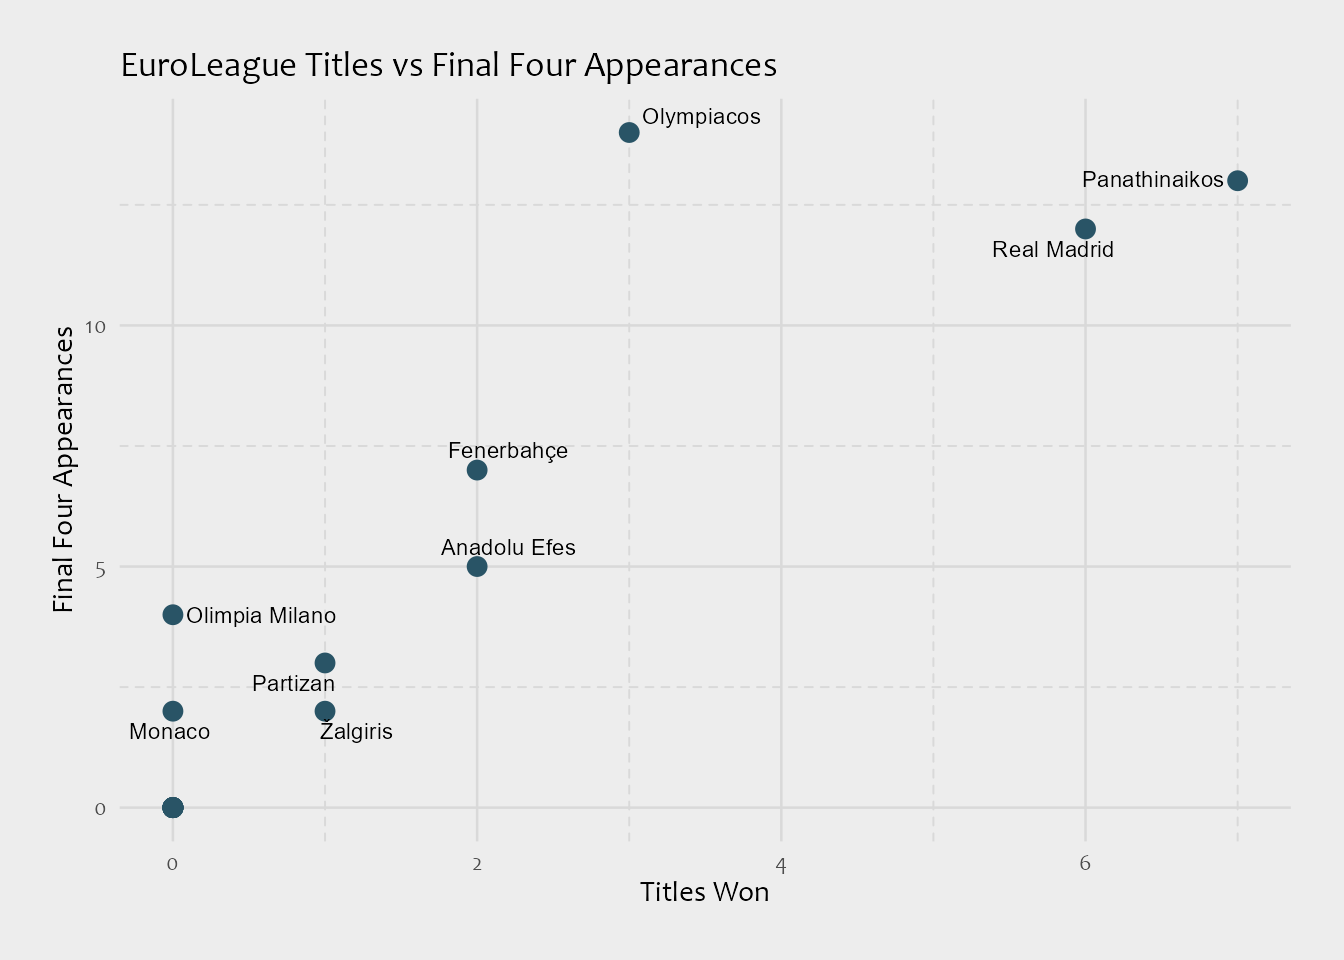
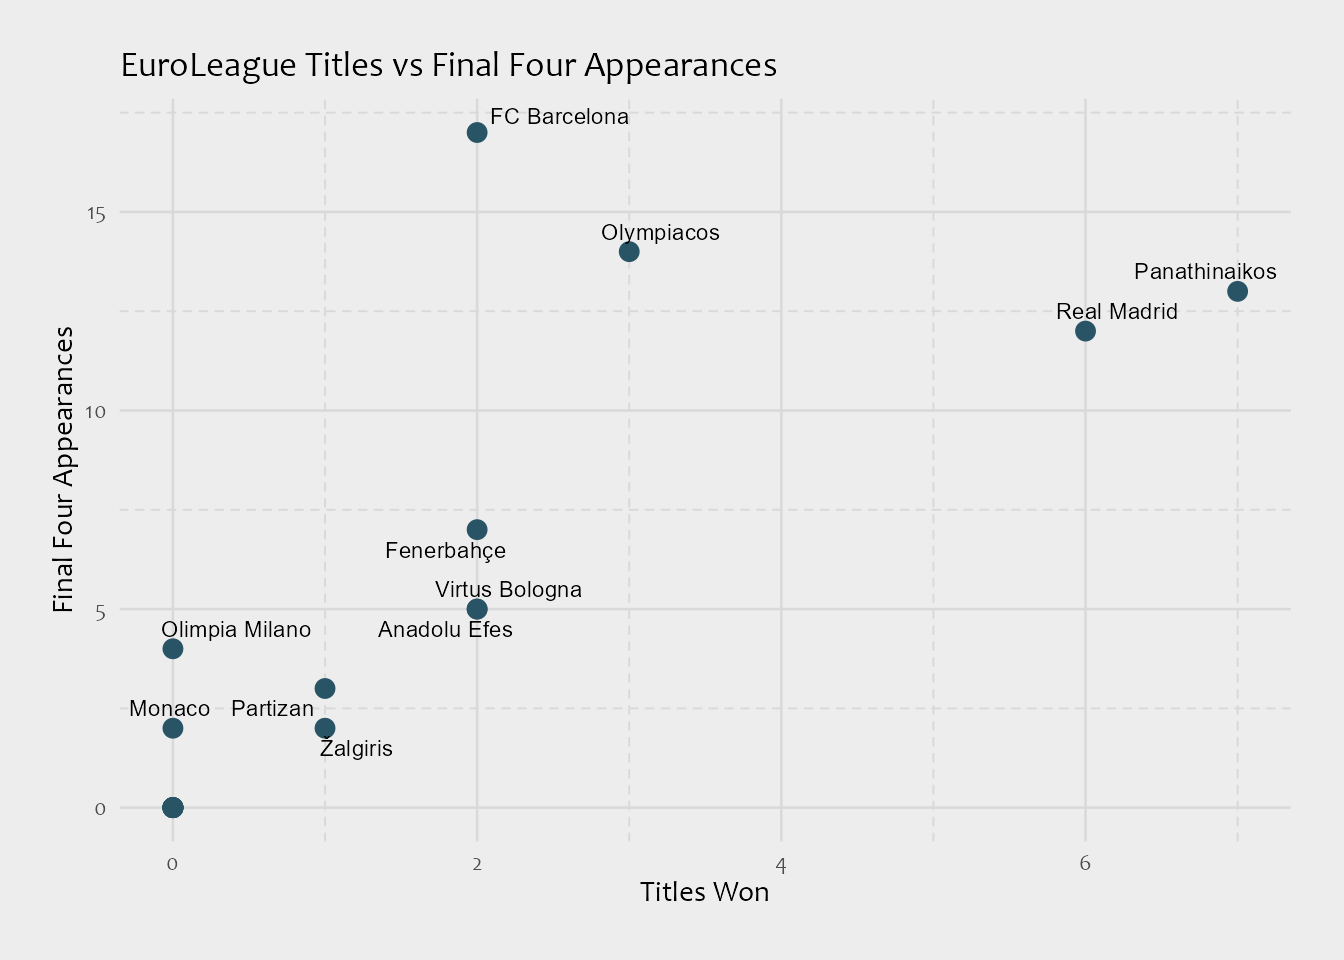
updaye

diff --git a/docs/articles/euroleague-visualizations.html b/docs/articles/euroleague-visualizations.html
@@ -77,6 +77,7 @@ the <code>euroleague_basketball</code> dataset.</p>
 <span><span class="kw"><a href="https://rdrr.io/r/base/library.html" class="external-link">library</a></span><span class="op">(</span><span class="va"><a href="https://ggplot2.tidyverse.org" class="external-link">ggplot2</a></span><span class="op">)</span></span>
 <span><span class="kw"><a href="https://rdrr.io/r/base/library.html" class="external-link">library</a></span><span class="op">(</span><span class="va"><a href="https://ggrepel.slowkow.com/" class="external-link">ggrepel</a></span><span class="op">)</span></span>
 <span><span class="kw"><a href="https://rdrr.io/r/base/library.html" class="external-link">library</a></span><span class="op">(</span><span class="va"><a href="https://r-datatable.com" class="external-link">data.table</a></span><span class="op">)</span></span>
+<span><span class="co">#&gt; Warning: package 'data.table' was built under R version 4.5.1</span></span>
 <span><span class="kw"><a href="https://rdrr.io/r/base/library.html" class="external-link">library</a></span><span class="op">(</span><span class="va"><a href="https://github.com/wch/extrafont" class="external-link">extrafont</a></span><span class="op">)</span></span>
 <span><span class="co">#&gt; Registering fonts with R</span></span></code></pre></div>
 </div>
@@ -91,19 +92,19 @@ the <code>euroleague_basketball</code> dataset.</p>
 <span><span class="co">#&gt;                         Team              Country       Home city</span></span>
 <span><span class="co">#&gt;                       &lt;char&gt;               &lt;char&gt;          &lt;char&gt;</span></span>
 <span><span class="co">#&gt; 1:              Anadolu Efes               Turkey        Istanbul</span></span>
-<span><span class="co">#&gt; 2:                 Barcelona                 &lt;NA&gt;       Barcelona</span></span>
-<span><span class="co">#&gt; 3:                  Baskonia                Spain Vitoria-Gasteiz</span></span>
-<span><span class="co">#&gt; 4:             Bayern Munich              Germany          Munich</span></span>
-<span><span class="co">#&gt; 5: Crvena zvezda Meridianbet               Serbia        Belgrade</span></span>
-<span><span class="co">#&gt; 6:          Dubai Basketball United Arab Emirates           Dubai</span></span>
-<span><span class="co">#&gt;                            Arena Capacity FinalFour_Appearances Titles_Won</span></span>
-<span><span class="co">#&gt;                           &lt;char&gt;   &lt;char&gt;                &lt;char&gt;     &lt;char&gt;</span></span>
-<span><span class="co">#&gt; 1: Basketball Development Center   10,000                     5          2</span></span>
-<span><span class="co">#&gt; 2:               Palau Blaugrana    7,585                     0          0</span></span>
-<span><span class="co">#&gt; 3:                   Buesa Arena   15,431                     0          0</span></span>
-<span><span class="co">#&gt; 4:                    SAP Garden   11,500                     0          0</span></span>
-<span><span class="co">#&gt; 5:                Belgrade Arena   18,386                     0          0</span></span>
-<span><span class="co">#&gt; 6:               Coca-Cola Arena   17,000                     0          0</span></span></code></pre></div>
+<span><span class="co">#&gt; 2:                  Baskonia                Spain Vitoria-Gasteiz</span></span>
+<span><span class="co">#&gt; 3:             Bayern Munich              Germany          Munich</span></span>
+<span><span class="co">#&gt; 4: Crvena zvezda Meridianbet               Serbia        Belgrade</span></span>
+<span><span class="co">#&gt; 5:          Dubai Basketball United Arab Emirates           Dubai</span></span>
+<span><span class="co">#&gt; 6:              FC Barcelona                Spain       Barcelona</span></span>
+<span><span class="co">#&gt;                            Arena   Capacity FinalFour_Appearances Titles_Won</span></span>
+<span><span class="co">#&gt;                           &lt;char&gt;     &lt;char&gt;                &lt;char&gt;     &lt;char&gt;</span></span>
+<span><span class="co">#&gt; 1: Basketball Development Center 10,000[22]                     5          2</span></span>
+<span><span class="co">#&gt; 2:                   Buesa Arena 15,431[24]                     0          0</span></span>
+<span><span class="co">#&gt; 3:                    SAP Garden 11,500[25]                     0          0</span></span>
+<span><span class="co">#&gt; 4:                Belgrade Arena 18,386[26]                     0          0</span></span>
+<span><span class="co">#&gt; 5:               Coca-Cola Arena     17,000                     0          0</span></span>
+<span><span class="co">#&gt; 6:               Palau Blaugrana  7,585[23]                    17          2</span></span></code></pre></div>
 </div>
 <div class="section level2">
 <h2 id="titles-vs-final-four-appearances">Titles vs Final Four Appearances<a class="anchor" aria-label="anchor" href="#titles-vs-final-four-appearances"></a>
@@ -157,6 +158,10 @@ the <code>euroleague_basketball</code> dataset.</p>
 always those with the most titles. For example, some teams are
 consistent contenders but rarely convert appearances into
 championships.</p>
+</div>
+<div class="section level2">
+<h2 id="second-plot">Second plot<a class="anchor" aria-label="anchor" href="#second-plot"></a>
+</h2>
 </div>
   </main><aside class="col-md-3"><nav id="toc" aria-label="Table of contents"><h2>On this page</h2>
     </nav></aside>
